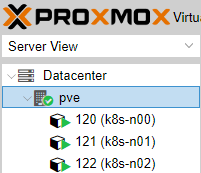
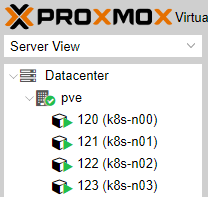
update readme

diff --git a/README.md b/README.md
@@ -34,6 +34,7 @@ root@pve:/mnt/pve/wd80/private# tree -L 2
     ├── k8s-n00  
     ├── k8s-n01
     ├── k8s-n02
+    ├── k8s-n03    
     └── share
 ```
 
@@ -86,12 +87,12 @@ $ ansible-playbook -e @vars.yml -i inventory.ini ansible_purge_k8s.yml
 
 ### Check GPU 
 
-![](./docs/img/nvidia-smi-k8s-n02.png)
+![](./docs/img/nvidia-smi-k8s-n01.png)
 
 
 ### Check nvidia docker 
 
-![](./docs/img/nvidia-docker-k8s-n02.png)
+![](./docs/img/nvidia-docker-k8s-n01.png)
 
 
 ## References 
